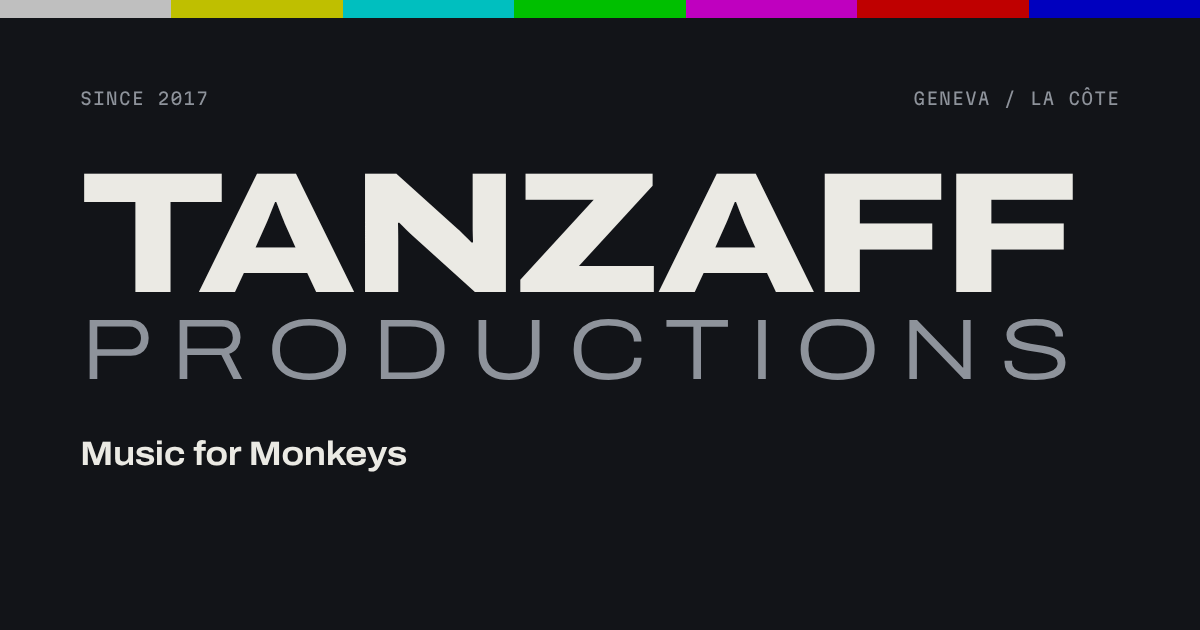
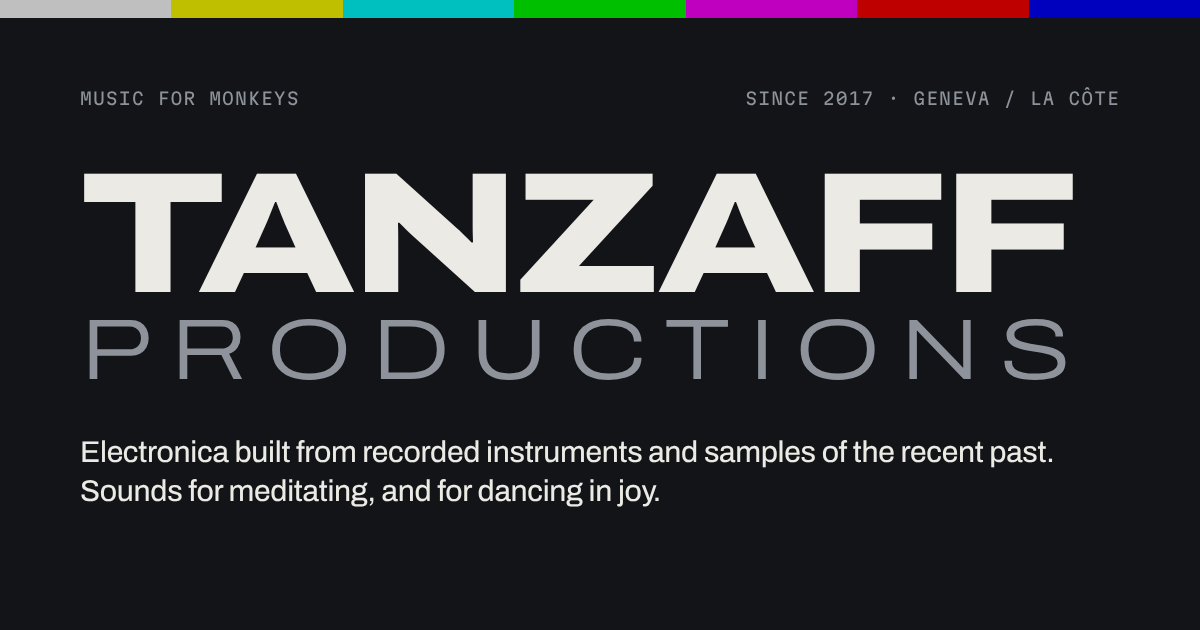
Prototype: motto back on top, intro across the full width
"Music for Monkeys" returns to the small line above the wordmark. The intro
sits flush left under the lockup, one sentence per line on wide screens,
sized to the column so it fills the width instead of a narrow block.

Claude-Session: https://claude.ai/code/session_01KXoz71cHGqvtEfeKz9cG5g

Changed region(s): [[0.0617, 0.6937, 0.8633, 0.8143], [0.0617, 0.1206, 0.2467, 0.181], [0.6167, 0.1206, 0.7092, 0.181]]

diff --git a/styles.css b/styles.css
@@ -119,31 +119,21 @@ html.is-locked, html.is-locked body { overflow: hidden; }
   color: var(--muted);
 }
 
-/* Motto and intro start on the content column, in line with every section
-   below them */
-.masthead-copy {
-  display: flex;
-  flex-direction: column;
-  gap: 0.75rem;
-  margin-left: calc(var(--label-col) + 2rem);
-}
-
-.motto {
-  margin: 0;
-  font-stretch: 112%;
-  font-weight: 650;
-  font-size: clamp(1.5rem, 3vw, 2.1rem);
-  line-height: 1.15;
-  letter-spacing: -0.015em;
-}
-
+/* Intro flush left under the wordmark. On wide screens each sentence gets its
+   own line across the width of the lockup; the first sentence is about
+   32.5em long, so the size is derived from the column width. On narrow
+   screens it wraps normally. */
 .lead {
-  margin: 0;
-  max-width: 44ch;
-  color: var(--muted);
-  font-size: clamp(1.05rem, 1.8vw, 1.25rem);
-  line-height: 1.45;
-  text-wrap: balance;
+  margin: 2.5rem 0 0;
+  font-size: 1.25rem;
+  font-weight: 450;
+  line-height: 1.3;
+  letter-spacing: -0.01em;
+}
+
+@media (min-width: 821px) {
+  .lead { font-size: min(1.95rem, calc((100vw - 3.4rem) / 34)); }
+  .lead span { display: block; white-space: nowrap; }
 }
 
 /* -------------------------------------------- Section rows (the grid) */
@@ -602,9 +592,7 @@ button:focus-visible {
   }
 
   .latest-link { grid-template-columns: minmax(0, 1fr); gap: 1rem; }
-  .latest-title { font-size: min(3rem, calc((100vw - 3.6rem) / 6.6)); }
-  .masthead-copy { margin-left: 0; }
-}
+  .latest-title { font-size: min(3rem, calc((100vw - 3.6rem) / 6.6)); }}
 
 @media (max-width: 560px) {
   .page { padding-top: 2rem; }

diff --git a/index.html b/index.html
@@ -81,15 +81,12 @@
 
     <main class="page">
       <header class="masthead">
-        <p class="ident"><span>Since 2017</span><span>Geneva / La C&ocirc;te</span></p>
+        <p class="ident"><span>Music for Monkeys</span><span>Since 2017 &middot; Geneva / La C&ocirc;te</span></p>
         <h1 class="wordmark">Tanzaff <span>Productions</span></h1>
-        <div class="masthead-copy">
-          <p class="motto">Music for Monkeys</p>
-          <p class="lead">
-            Electronica built from recorded instruments and samples of the recent past.
-            Sounds for meditating, and for dancing in joy.
-          </p>
-        </div>
+        <p class="lead">
+          <span>Electronica built from recorded instruments and samples of the recent past.</span>
+          <span>Sounds for meditating, and for dancing in joy.</span>
+        </p>
       </header>
 
       <!-- ============================================================
